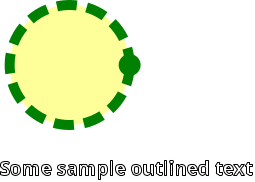
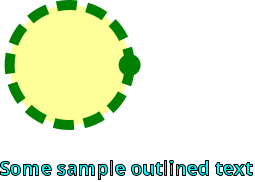
corrected print method for filled outline

Changed region(s): [[0.0, 0.8791, 0.8235, 0.989], [0.851, 0.8791, 0.9882, 0.9615]]

diff --git a/src/java/jdr/JDRText.java b/src/java/jdr/JDRText.java
@@ -968,6 +968,7 @@ public class JDRText extends JDRCompleteObject
       return latexText;
    }
 
+   @Override
    public void draw(FlowFrame parentFrame)
    {
       CanvasGraphics cg = getCanvasGraphics();
@@ -1038,6 +1039,7 @@ public class JDRText extends JDRCompleteObject
       }
    }
 
+   @Override
    public void print(Graphics2D g2)
    {
       CanvasGraphics cg = getCanvasGraphics();
@@ -1065,10 +1067,16 @@ public class JDRText extends JDRCompleteObject
          box = new BBox(cg, bounds);
       }
 
-      g2.setPaint(getTextPaint().getPaint(box));
-
       if (isOutline)
       {
+         if (fillPaint != null && !(fillPaint instanceof JDRTransparent))
+         {
+            g2.setPaint(fillPaint.getPaint(box));
+            g2.fill(outline);
+         }
+
+         g2.setPaint(getTextPaint().getPaint(box));
+
          Stroke oldStroke = g2.getStroke();
          g2.setStroke(getOutlineStroke(cg));
          g2.draw(outline);
@@ -1077,6 +1085,8 @@ public class JDRText extends JDRCompleteObject
       }
       else
       {
+         g2.setPaint(getTextPaint().getPaint(box));
+
          g2.fill(outline);
       }
 
